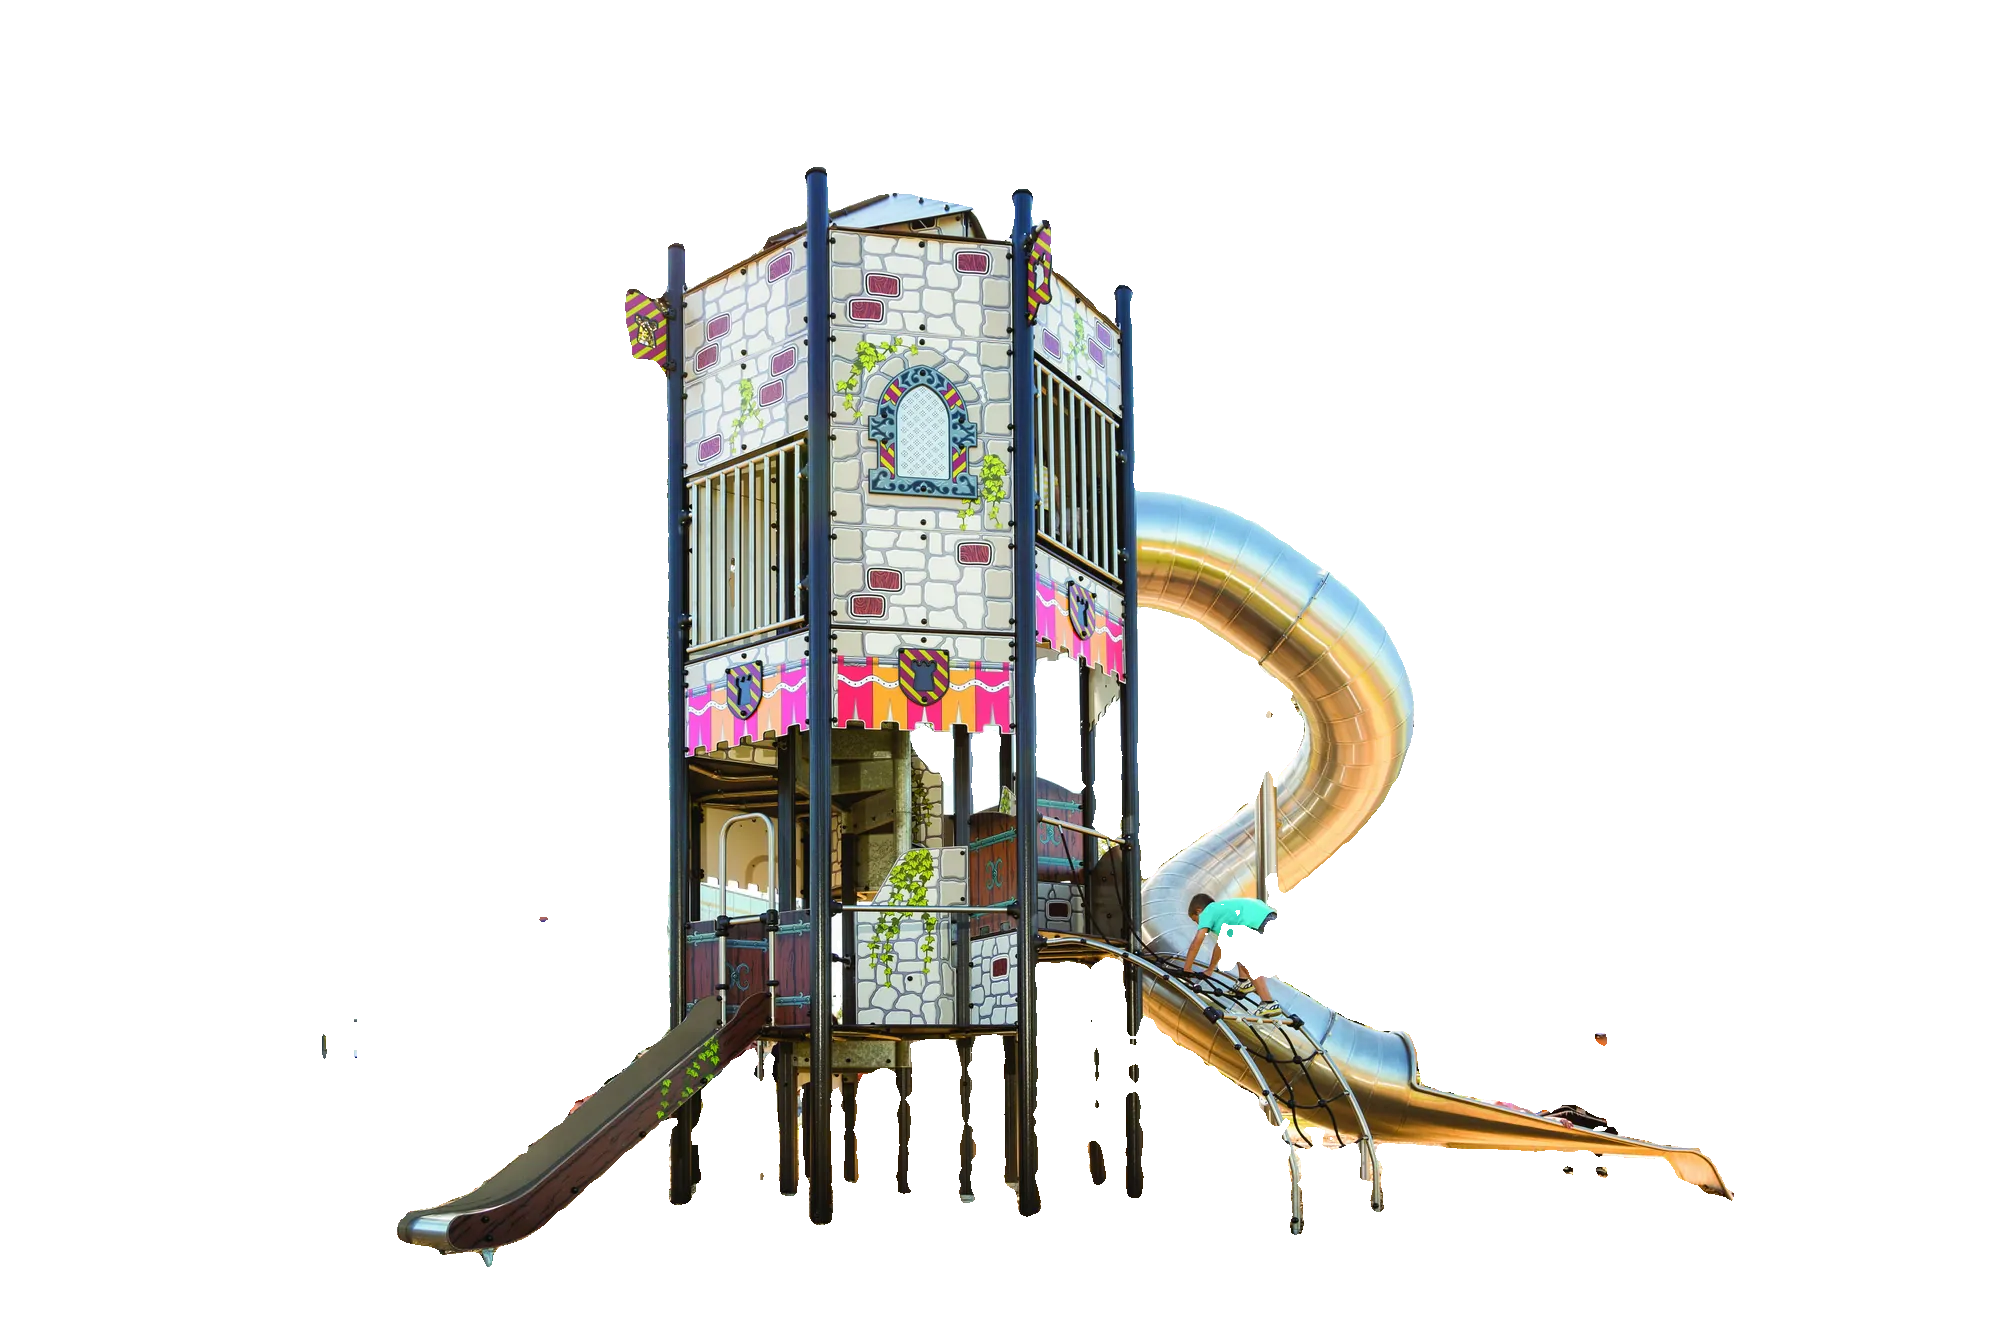
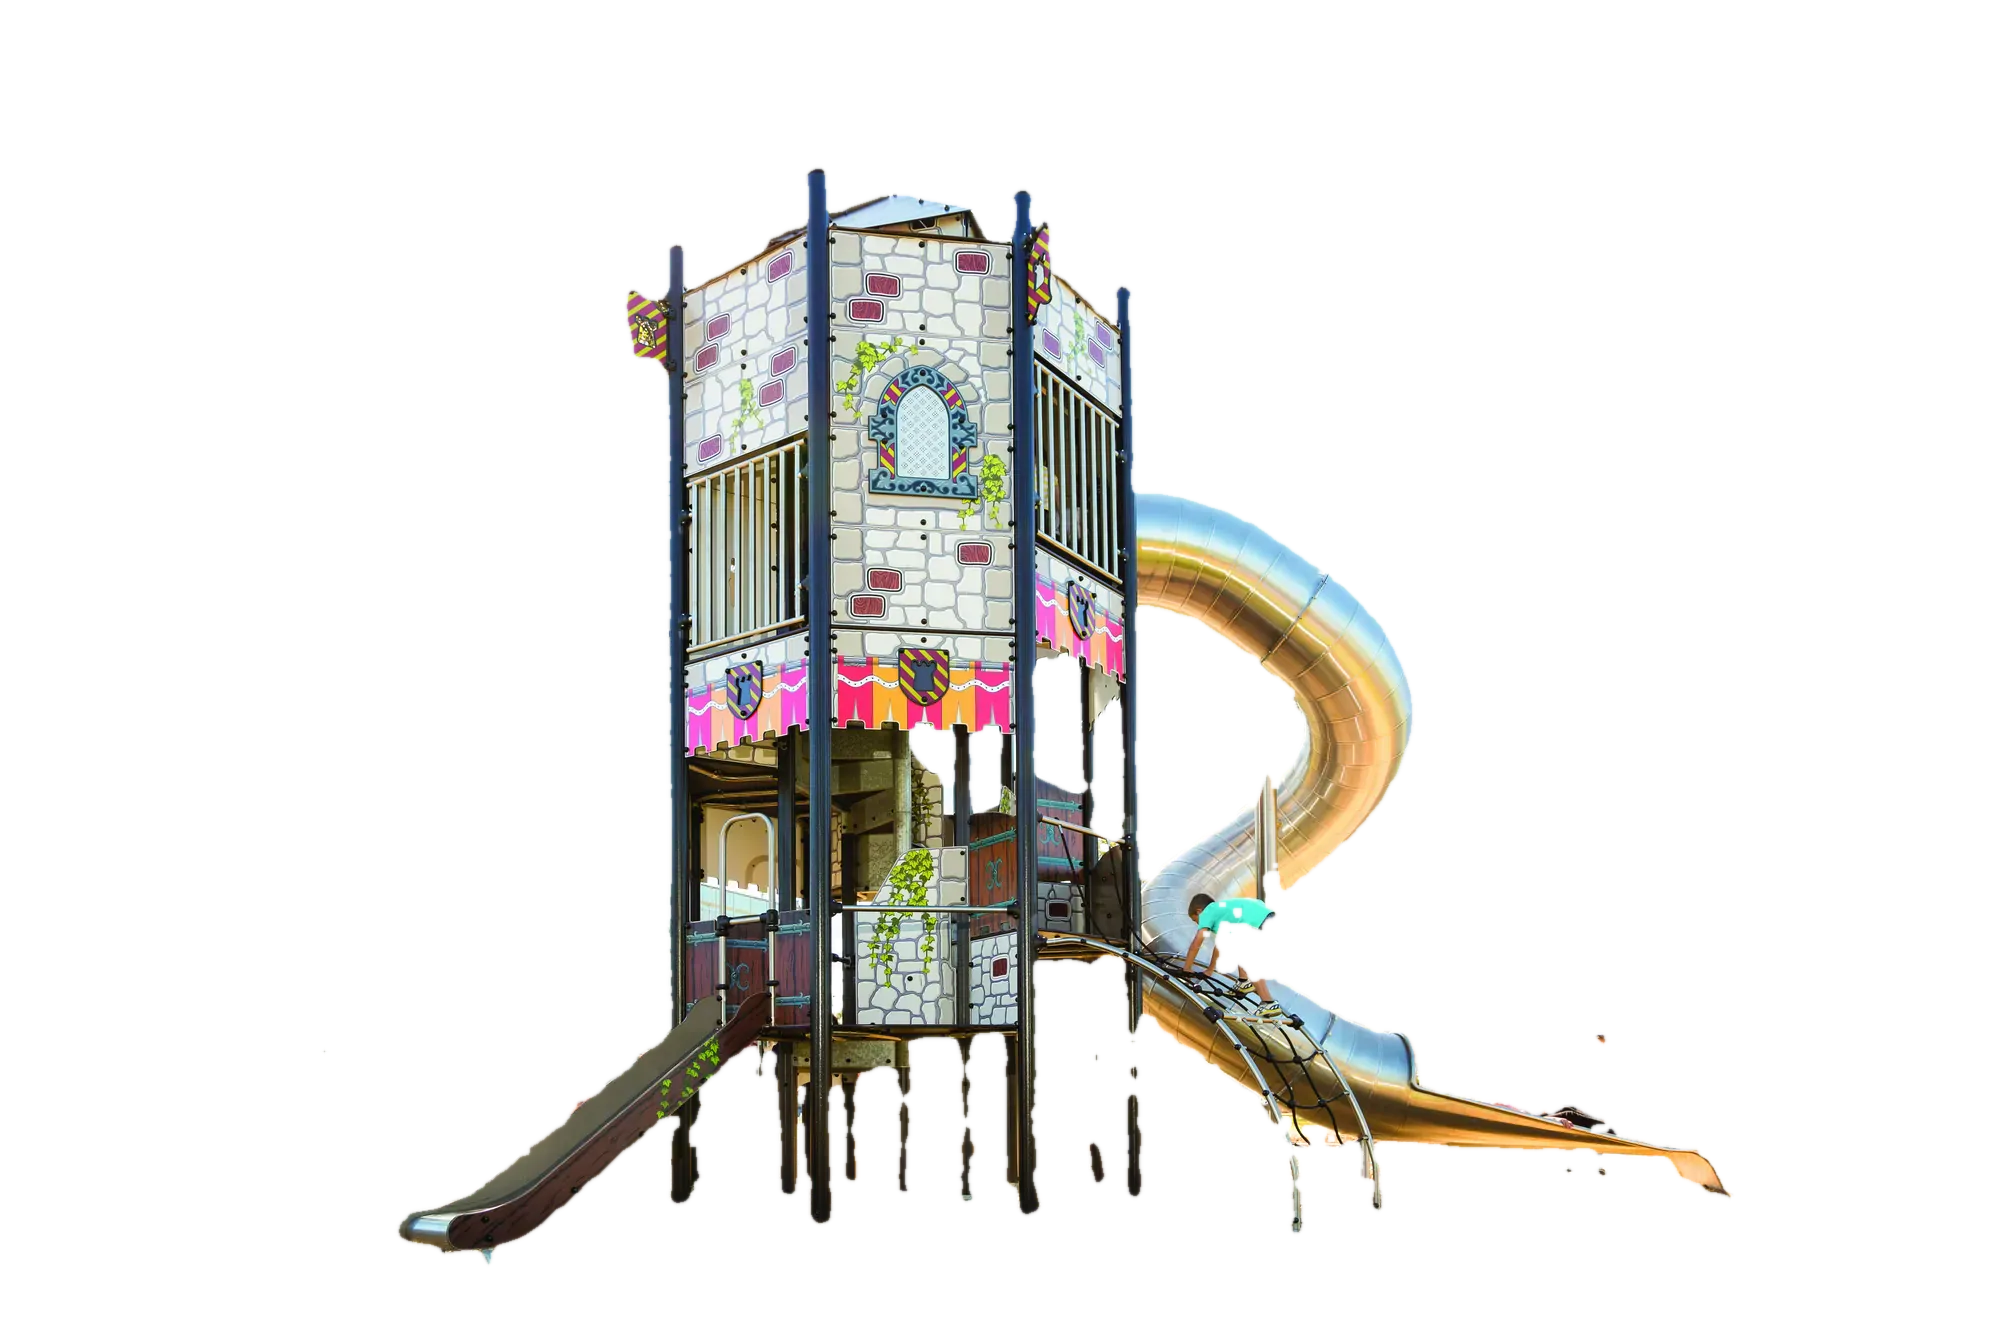
Suavizar el borde del recorte para que deje de vibrar
El canal alfa de la capa era binario: cero pixeles intermedios entre opaco
y transparente, medido sobre el archivo. Un acantilado asi delata cualquier
remuestreo subpixel, y al subir el crecimiento de 2.6% a 8% el borde cambia
de fraccion de pixel mas rapido, por eso volvio a notarse.

Dos cambios:

- El archivo lleva ahora unos 2 px de difuminado hacia adentro (erosion de
  2 px y gblur sigma 1.2). Hacia adentro, no hacia afuera: afuera estan los
  pixeles del entorno, que si asomaran se verian duplicados a otra escala.
  Adentro esta el mismo castillo de la foto de abajo, identico pixel a
  pixel, asi que el degradado se funde consigo mismo y no se ve.

- La capa pasa a tener superficie propia en la GPU (will-change y
  backface-visibility). Sin eso el navegador la redibujaba dentro de la
  capa del contenedor en cada fotograma; ahora se dibuja una vez y la GPU
  la transforma, asi que el borde se desliza en lugar de rehacerse.

El archivo pasa de 143 KB a 175 KB, solo en escritorio: en movil el <img>
se queda en el GIF transparente y nunca se pide.

diff --git a/assets/css/styles.css b/assets/css/styles.css
@@ -362,6 +362,12 @@ p { margin: 0; }
   from { transform: scale(1.03); }
   to   { transform: scale(1.11); }
 }
+/* El archivo del recorte lleva el borde difuminado unos 2 px hacia adentro.
+   Antes su canal alfa era binario — medido: cero píxeles intermedios, un
+   acantilado de opaco a transparente —, y un borde así delata cualquier
+   remuestreo subpíxel. Difuminado hacia adentro, la silueta se funde con el
+   mismo castillo de la foto de abajo, que es idéntico píxel a píxel, así que
+   el degradado no se ve: solo deja de vibrar. */
 .hero__capa {
   /* Crece desde su propia base, no desde el centro del encuadre. Si creciera
      desde el centro, al aumentar el recorrido la base del castillo bajaría
@@ -372,6 +378,14 @@ p { margin: 0; }
      interior, la forma crecida contiene siempre a la original. */
   transform-origin: 50% 92%;
   animation: heroCapaExtra 26s ease-in-out infinite alternate;
+  /* La capa necesita su propia superficie en la GPU. Sin esto el navegador la
+     vuelve a dibujar dentro de la capa del contenedor en cada fotograma, y
+     como su escala cambia continuamente, el borde del recorte cae cada vez en
+     una fracción de píxel distinta: eso es la vibración. Con superficie propia
+     se dibuja una sola vez y la GPU la transforma, así que el borde se desliza
+     en lugar de rehacerse. */
+  will-change: transform;
+  backface-visibility: hidden;
 }
 /* En móvil la foto es otro recorte y la capa no encaja; además el <img>
    se queda en el GIF de 43 bytes, así que no cuesta nada. */

diff --git a/index.html b/index.html
@@ -42,7 +42,7 @@
   <link href="https://fonts.googleapis.com/css2?family=Manrope:wght@400;500;600;700;800&display=swap" rel="stylesheet" />
 
   <link rel="stylesheet" href="assets/css/lenis.min.css" />
-  <link rel="stylesheet" href="assets/css/styles.css?v=150" />
+  <link rel="stylesheet" href="assets/css/styles.css?v=151" />
 
   <!-- ============================================================
        SEO — DATOS ESTRUCTURADOS (JSON-LD)
